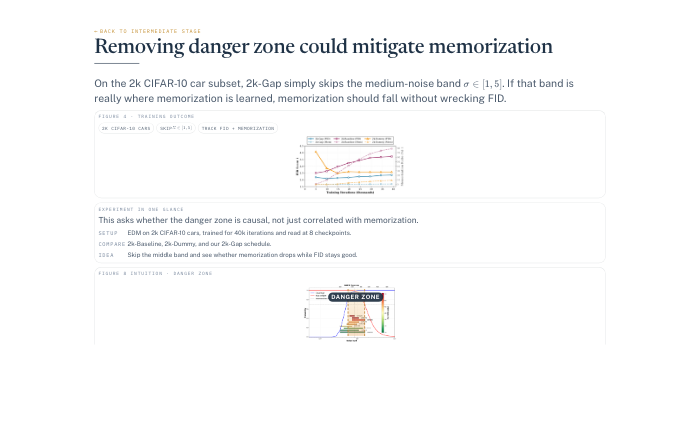
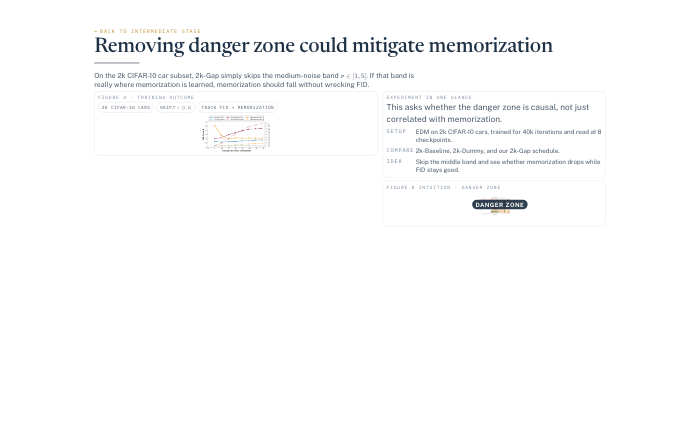
Fix danger-zone branch slide fit

diff --git a/colloquium-academic-v8-modular-rebuilt/40-regularize-the-danger-zone-not-the-endpoint.html b/colloquium-academic-v8-modular-rebuilt/40-regularize-the-danger-zone-not-the-endpoint.html
@@ -64,6 +64,10 @@
       white-space: nowrap;
     }
     @media (max-width: 1280px), (max-aspect-ratio: 16/10) {
+      .danger-zone-slide .late-grid {
+        grid-template-columns: minmax(0, 1.12fr) minmax(0, 0.88fr);
+      }
+
       .late-figure--gap img {
         max-height: min(32vh, 18rem);
       }
@@ -74,6 +78,43 @@
 
       .danger-frame img {
         max-height: min(18vh, 9.2rem);
+      }
+    }
+
+    @media (max-height: 700px) {
+      .danger-zone-slide .late-backlink {
+        margin-bottom: 0.3em;
+      }
+
+      .danger-zone-slide h2 {
+        margin-bottom: 0.24em;
+      }
+
+      .danger-zone-slide .late-lead {
+        margin-bottom: 0.24em;
+        font-size: 0.52em;
+        line-height: 1.26;
+      }
+
+      .danger-zone-slide .late-panel {
+        padding: 0.48rem 0.58rem 0.5rem;
+        border-radius: 12px;
+      }
+
+      .danger-zone-slide .late-panel__kicker {
+        margin-bottom: 0.24rem;
+      }
+
+      .danger-zone-slide .late-stack {
+        gap: 0.4rem;
+      }
+
+      .danger-zone-slide .late-figure--gap img {
+        max-height: min(27vh, 15rem);
+      }
+
+      .danger-zone-slide .danger-frame img {
+        max-height: min(13vh, 7.2rem);
       }
     }
   </style>
@@ -89,7 +130,7 @@
   </header>
 <div class="reveal standalone-reveal">
     <div class="slides">
-<section>
+<section class="danger-zone-slide">
 <div class="late-shell">
   <a class="late-backlink" href="37-intermediate-sigma-the-wild-middle.html">Back to intermediate stage</a>
   <h2 data-kicker="Empirical observation · Figure 4 + danger-zone intuition">Removing danger zone could mitigate memorization</h2>
